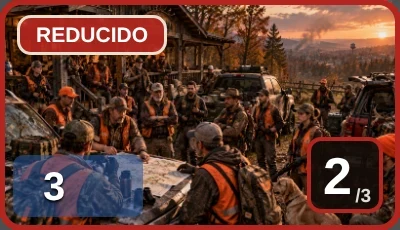
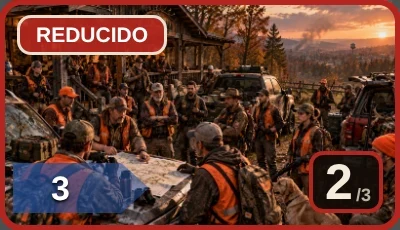
Fichas del SAR y del Club de Caza: flecha de Movimiento y cuadro de Fuerza como los originales
Claude-Session: https://claude.ai/code/session_01KmRiLZMftQUUyzar8LGUez

Changed region(s): [[0.03, 0.6696, 0.36, 0.9739], [0.75, 0.5783, 0.96, 0.913], [0.36, 0.7913, 0.39, 0.8217]]

diff --git a/sw.js b/sw.js
@@ -1,7 +1,7 @@
 /* Service worker: permite instalar la web como app y jugar sin conexión.
    Código (html/js/css): red primero, con copia local de reserva. Imágenes y audio: caché primero. */
 'use strict';
-const CACHE = 'doz3-v43';
+const CACHE = 'doz3-v44';
 const SHELL = ['./', 'index.html', 'style.css', 'manifest.webmanifest', 'icons/icon-192.png', 'icons/icon-512.png', 'assets/portada.jpg', 'assets/fondo_nueva.webp', 'assets/fondo_ranking.webp',
   'js/version.js', 'js/data.js', 'js/events.js', 'js/dest.js', 'js/evlog.js', 'js/preview.js', 'js/obituario.js', 'js/engine.js', 'js/game.js', 'js/phases.js', 'js/actions.js', 'js/cardtext.js', 'js/ui.js', 'js/anim.js',
   'js/expansions.js', 'js/expansions2.js', 'js/sfx.js', 'js/sound.js', 'js/opciones.js', 'js/voz.js', 'js/ost.js', 'assets/sonidos/letras/letras.js', 'assets/sonidos/efectos/sfx_disparo.mp3', 'assets/sonidos/efectos/sfx_disparo_largo.mp3', 'js/mapzoom.js', 'js/seedcode.js', 'js/save.js', 'js/main.js', 'js/bot.js'];

diff --git a/js/version.js b/js/version.js
@@ -1,2 +1,2 @@
 /* Fecha y hora de la última build (hora de Madrid). Se actualiza con cada cambio publicado. */
-const BUILD_TIME = '2026-10-31 11:30';
+const BUILD_TIME = '2026-10-31 11:50';

diff --git a/CHANGELOG.md b/CHANGELOG.md
@@ -2,6 +2,11 @@
 
 Registro de cambios por publicación (push a `main`). Lo más reciente, arriba. Cada entrada lleva la misma fecha y hora que `BUILD_TIME` de `js/version.js`.
 
+## 2026-10-31 11:50
+
+### Fixes
+- **Fichas del SAR y del Club de Caza:** el indicador de Movimiento ahora es una flecha con punta y el cuadro de Fuerza tiene las proporciones y los colores de las fichas originales (número grande en crema y Fuerza de la otra cara pequeña, en gris).
+
 ## 2026-10-31 11:30
 
 ### Nuevo
